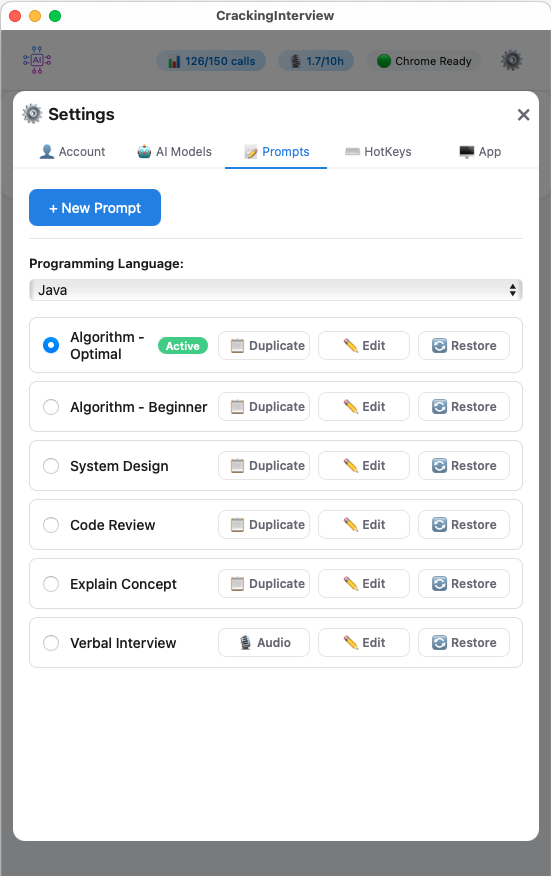
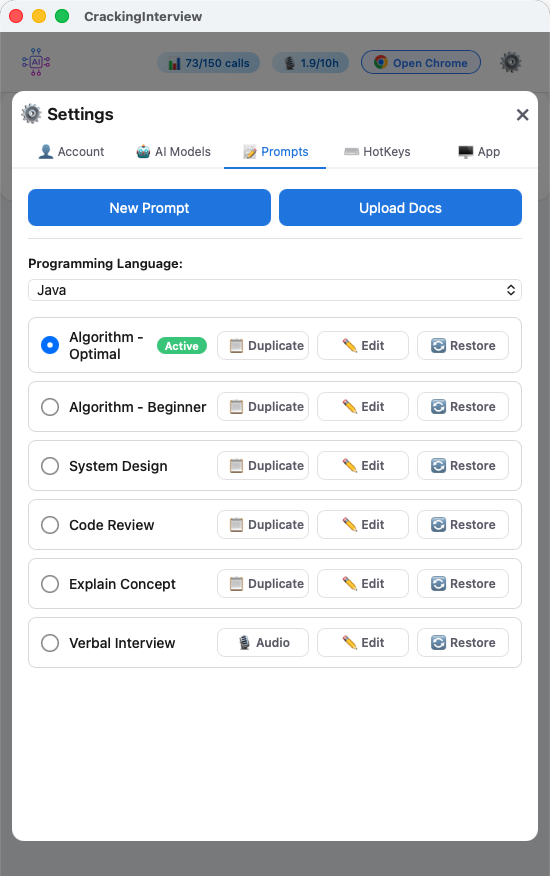
add upload doc

diff --git a/guide.html b/guide.html
@@ -143,6 +143,24 @@
         <strong>Tip:</strong> After Chrome opens and loads a page, click the <strong>refresh button</strong> next to the Input Source dropdown to update the list of available tabs.
     </div>
 
+    <h3>Connect to Your Existing Chrome (Chrome 144+)</h3>
+    <p>If you have <strong>Chrome 144 or later</strong>, you can connect CrackingInterview to your existing Chrome window instead of opening a new one:</p>
+    <div class="step">
+        <span class="step-number">1</span> In Chrome, go to <code>chrome://inspect/#remote-debugging</code>
+    </div>
+    <div class="step">
+        <span class="step-number">2</span> Check <strong>"Allow remote debugging for this browser instance"</strong>
+    </div>
+    <div class="step">
+        <span class="step-number">3</span> Click <strong>"Open Chrome"</strong> in CrackingInterview — it will automatically detect and connect to your running Chrome.
+    </div>
+    <p>This lets you use your existing tabs, bookmarks, and logged-in sessions directly with CrackingInterview.</p>
+
+    <div class="screenshot-single">
+        <img src="img/chrome-remote-debugging.png" alt="Chrome remote debugging settings at chrome://inspect showing Allow remote debugging checkbox" loading="lazy">
+        <p class="screenshot-caption">Chrome remote debugging — enable at chrome://inspect/#remote-debugging</p>
+    </div>
+
     <!-- 3 -->
     <h2 id="g3">3. Selecting an Input Source</h2>
     <p>The Input Source dropdown shows all available sources:</p>
@@ -333,14 +351,38 @@
     <p>Go to <strong>Settings → Prompts</strong> and click <strong>"Edit"</strong> on any prompt. You can customize the system instructions and user template. Use <code>{CONTENT}</code> as a placeholder for the extracted text and <code>{LANGUAGE}</code> for the programming language.</p>
 
     <h3>Creating a Custom Prompt</h3>
-    <p>Click <strong>"+ New Prompt"</strong> to create your own. You can have up to 3 custom prompts.</p>
+    <p>Click <strong>"New Prompt"</strong> to create your own. You can have up to 3 custom prompts.</p>
+
+    <h3>Document Placeholders</h3>
+    <p>Upload your documents (resume, cover letter, etc.) and use them as context in any prompt. Click <strong>"Upload Docs"</strong> in Settings → Prompts to open the Document Manager.</p>
+    <div class="step">
+        <span class="step-number">1</span> Click <strong>"Upload Docs"</strong> in the Prompts settings tab.
+    </div>
+    <div class="step">
+        <span class="step-number">2</span> Upload up to <strong>3 files</strong> (PDF, DOCX, DOC, or TXT) and assign a name to each.
+    </div>
+    <div class="step">
+        <span class="step-number">3</span> The app extracts the text and creates a <code>{PLACEHOLDER}</code> for each document.
+    </div>
+    <div class="step">
+        <span class="step-number">4</span> Use the placeholder (e.g. <code>{MY_RESUME}</code>) in any prompt template — the extracted text is automatically injected when you Solve.
+    </div>
+
+    <div class="warning">
+        <strong>Note:</strong> Reserved names like <code>{CONTENT}</code>, <code>{LANGUAGE}</code>, and <code>{INTERVIEW_LANGUAGE}</code> cannot be used as document placeholder names.
+    </div>
+
+    <div class="screenshot-single">
+        <img src="img/setting-upload-docs.png" alt="Document Placeholders dialog — upload documents and assign placeholder names for use in prompts" loading="lazy">
+        <p class="screenshot-caption">Upload Docs — upload documents and assign {PLACEHOLDER} names</p>
+    </div>
 
     <h3>Programming Language</h3>
     <p>Select your preferred language in <strong>Settings → Prompts</strong>. Available: Java, Python, JavaScript, C++, Swift, Go, PHP, Ruby, SQL.</p>
 
     <div class="screenshot-pair">
         <div>
-            <img src="img/setting-prompts.png" alt="Prompts settings with programming language selection and 6 built-in prompts" loading="lazy">
+            <img src="img/setting-prompts.png" alt="Prompts settings with programming language selection, 6 built-in prompts, New Prompt and Upload Docs buttons" loading="lazy">
             <p class="screenshot-caption">Settings → Prompts</p>
         </div>
         <div>
@@ -426,6 +468,11 @@
         </tr>
         <tr>
             <td>Custom Prompts</td>
+            <td>&#10003;</td>
+            <td>&#10003;</td>
+        </tr>
+        <tr>
+            <td>Document Placeholders</td>
             <td>&#10003;</td>
             <td>&#10003;</td>
         </tr>

diff --git a/index.html b/index.html
@@ -147,7 +147,7 @@
                 <div class="step-text">
                     <div class="step-num-circle">1</div>
                     <h3>Connect Chrome</h3>
-                    <p>Click <strong>Open Chrome</strong> in the header. The app launches a Chrome window connected via DevTools Protocol — your existing sessions stay untouched. The header shows <strong>"Chrome Ready"</strong> when connected.</p>
+                    <p>Click <strong>Open Chrome</strong> in the header. The app launches a Chrome window connected via DevTools Protocol — your existing sessions stay untouched. Or <a href="guide.html#g2">connect to your existing Chrome</a> with remote debugging enabled (Chrome 144+). The header shows <strong>"Chrome Ready"</strong> when connected.</p>
                 </div>
                 <div class="step-img">
                     <img src="img/main-chrome.png" alt="Main screen with Chrome Ready status and LeetCode tab selected" loading="lazy">
@@ -201,10 +201,10 @@
                 </div>
             </div>
             <div class="showcase-card">
-                <img src="img/setting-prompts.png" alt="Prompts settings with 6 built-in prompts and language selection" loading="lazy">
+                <img src="img/setting-prompts.png" alt="Prompts settings with 6 built-in prompts, language selection, and Upload Docs button" loading="lazy">
                 <div class="showcase-card-body">
-                    <h3>Custom Prompts</h3>
-                    <p>6 built-in prompts for algorithms, system design, code review, and more. Edit system and user prompts, or create your own.</p>
+                    <h3>Custom Prompts &amp; Document Upload</h3>
+                    <p>6 built-in prompts for algorithms, system design, code review, and more. Edit system and user prompts, create your own, or upload documents (resume, cover letter) as reusable placeholders.</p>
                 </div>
             </div>
             <div class="showcase-card">
@@ -288,6 +288,13 @@
             </div>
             <div class="highlight-card">
                 <div class="highlight-icon">
+                    <svg width="28" height="28" viewBox="0 0 24 24" fill="none" stroke="currentColor" stroke-width="2" stroke-linecap="round" stroke-linejoin="round"><path d="M14 2H6a2 2 0 0 0-2 2v16a2 2 0 0 0 2 2h12a2 2 0 0 0 2-2V8z"/><polyline points="14 2 14 8 20 8"/><path d="M12 18v-6"/><path d="M9 15l3-3 3 3"/></svg>
+                </div>
+                <h3>Document Upload</h3>
+                <p>Upload your resume, cover letter, or any document. Use <code>{PLACEHOLDER}</code> in prompts to inject document content as AI context.</p>
+            </div>
+            <div class="highlight-card">
+                <div class="highlight-icon">
                     <svg width="28" height="28" viewBox="0 0 24 24" fill="none" stroke="currentColor" stroke-width="2" stroke-linecap="round" stroke-linejoin="round"><circle cx="12" cy="12" r="3"/><path d="M19.4 15a1.65 1.65 0 0 0 .33 1.82l.06.06a2 2 0 0 1 0 2.83 2 2 0 0 1-2.83 0l-.06-.06a1.65 1.65 0 0 0-1.82-.33 1.65 1.65 0 0 0-1 1.51V21a2 2 0 0 1-2 2 2 2 0 0 1-2-2v-.09A1.65 1.65 0 0 0 9 19.4a1.65 1.65 0 0 0-1.82.33l-.06.06a2 2 0 0 1-2.83 0 2 2 0 0 1 0-2.83l.06-.06A1.65 1.65 0 0 0 4.68 15a1.65 1.65 0 0 0-1.51-1H3a2 2 0 0 1-2-2 2 2 0 0 1 2-2h.09A1.65 1.65 0 0 0 4.6 9a1.65 1.65 0 0 0-.33-1.82l-.06-.06a2 2 0 0 1 0-2.83 2 2 0 0 1 2.83 0l.06.06A1.65 1.65 0 0 0 9 4.68a1.65 1.65 0 0 0 1-1.51V3a2 2 0 0 1 2-2 2 2 0 0 1 2 2v.09a1.65 1.65 0 0 0 1 1.51 1.65 1.65 0 0 0 1.82-.33l.06-.06a2 2 0 0 1 2.83 0 2 2 0 0 1 0 2.83l-.06.06A1.65 1.65 0 0 0 19.4 9a1.65 1.65 0 0 0 1.51 1H21a2 2 0 0 1 2 2 2 2 0 0 1-2 2h-.09a1.65 1.65 0 0 0-1.51 1z"/></svg>
                 </div>
                 <h3>Bring Your Own Key</h3>
@@ -311,6 +318,7 @@
                     <li>Chrome tab input (coding practice sites)</li>
                     <li>Text extraction and screenshot</li>
                     <li>Custom prompts and hotkeys</li>
+                    <li>Document upload placeholders</li>
                 </ul>
             </div>
             <div class="plan-card pro">

diff --git a/compare.html b/compare.html
@@ -136,6 +136,14 @@
                     <td><span class="cross">&#10007;</span></td>
                     <td><span class="cross">&#10007;</span></td>
                 </tr>
+                <tr>
+                    <td>Document Upload (resume, etc.)</td>
+                    <td class="col-ours"><span class="check">&#10003;</span> PDF, DOCX, TXT placeholders</td>
+                    <td><span class="cross">&#10007;</span></td>
+                    <td><span class="cross">&#10007;</span></td>
+                    <td><span class="cross">&#10007;</span></td>
+                    <td><span class="cross">&#10007;</span></td>
+                </tr>
 
                 <!-- Input Methods -->
                 <tr class="row-category"><td colspan="6">Input Methods</td></tr>
